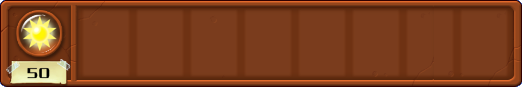
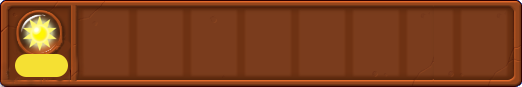
把媛姐改好的也push上去
现在还有几个bug
路障僵尸挂的时候好像带bug
然后那个🌰在遇到僵尸的时候，有时候会因为僵尸，增加的attack图片出bug

Changed region(s): [[0.0, 0.6207, 0.1533, 1.0], [0.092, 0.4598, 0.1226, 0.5747]]

diff --git a/src/Background/GamePanel.java b/src/Background/GamePanel.java
@@ -71,8 +71,8 @@ public class GamePanel extends JPanel {
       g.drawImage(BackImage, 0, 0, this);
       BufferedImage ChooseRec = ImageIO.read(new File("graphics/Screen/ChooserBackground.png"));
       g.drawImage(ChooseRec, 50, 0, this);
-      g.setFont(new Font("Serif", Font.BOLD, 32));
-      g.drawString(SunNum.toString(), 59, 70);
+      g.setFont(new Font("Serif", Font.BOLD, 28));
+      g.drawString(SunNum.toString(), 70, 76);
 
     } catch (Exception e) {
       e.printStackTrace();
